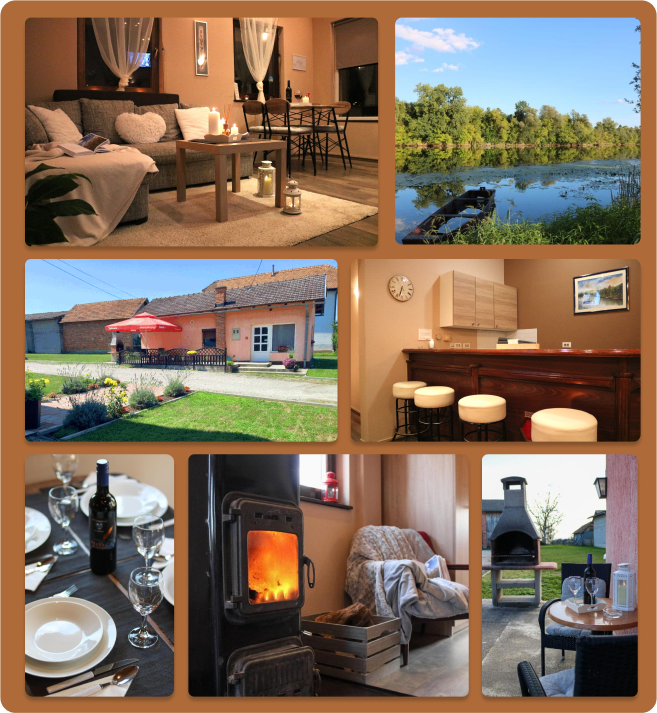
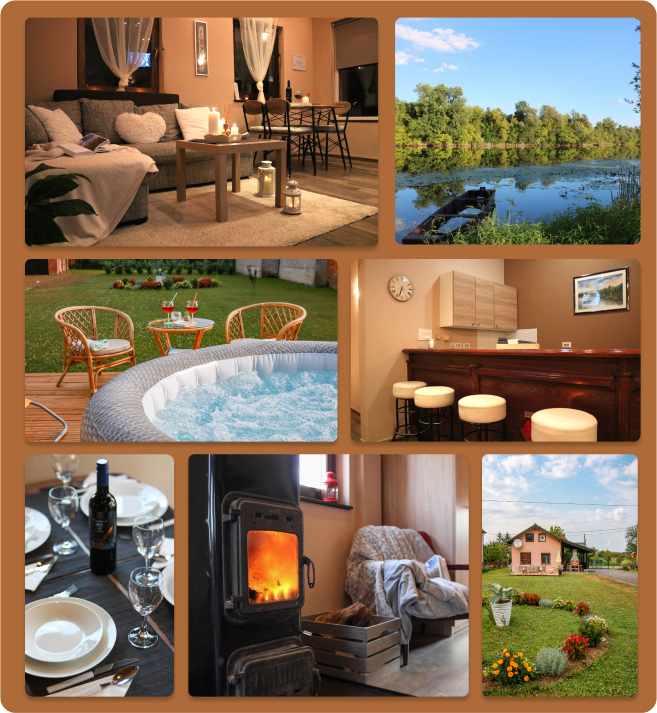
Add new images

Changed region(s): [[0.0304, 0.3394, 0.5175, 0.6171], [0.7306, 0.6171, 0.9741, 0.9874]]

diff --git a/src/Data/AboutImagesList.js b/src/Data/AboutImagesList.js
@@ -1,18 +1,27 @@
 export const AboutImagesList = [
-    { name: "about1.jpg" },
-    { name: "about2.jpg" },
-    { name: "about3.jpg" },
-    { name: "about12.jpg" },
-    { name: "about13.jpg" },
-    { name: "about14.jpg" },
-    { name: "about4.jpg" },
-    { name: "about15.jpg" },
-    { name: "about5.jpg" },
-    { name: "about6.jpg" },
-    { name: "about16.jpg" },
-    { name: "about8.jpg" },
-    { name: "about9.jpg" },
-    { name: "about10.jpg" },
-    { name: "about11.jpg" },
-    { name: "about7.jpg" },
+  { name: "about24.jpg" },
+  { name: "about17.jpg" },
+  { name: "about27.jpg" },
+  { name: "about20.jpg" },
+  { name: "about23.jpg" },
+  { name: "about19.jpg" },
+  { name: "about22.jpg" },
+  { name: "about18.jpg" },
+  { name: "about21.jpg" },
+  { name: "about26.jpg" },
+  { name: "about25.jpg" },
+  { name: "about1.jpg" },
+  { name: "about2.jpg" },
+  { name: "about3.jpg" },
+  { name: "about12.jpg" },
+  { name: "about13.jpg" },
+  { name: "about14.jpg" },
+  { name: "about4.jpg" },
+  { name: "about15.jpg" },
+  { name: "about5.jpg" },
+  { name: "about6.jpg" },
+  { name: "about16.jpg" },
+  { name: "about8.jpg" },
+  { name: "about9.jpg" },
+  { name: "about10.jpg" },
 ];

diff --git a/src/Components/PhotoSlider.jsx b/src/Components/PhotoSlider.jsx
@@ -53,11 +53,18 @@ export default class PhotoSlider extends Component {
     }
 
     const images = [
-      { url: require("../Images/apt1.jpg") },
+      { url: require("../Images/apt12.jpg") },
+      { url: require("../Images/apt10.jpg") },
       { url: require("../Images/apt4.jpg") },
+      { url: require("../Images/apt14.jpg") },
+      { url: require("../Images/apt13.jpg") },
+      { url: require("../Images/apt11.jpg") },
+      { url: require("../Images/apt9.jpg") },
+      { url: require("../Images/apt15.jpg") },
+      { url: require("../Images/apt16.jpg") },
       { url: require("../Images/apt5.jpg") },
       { url: require("../Images/apt6.jpg") },
-      { url: require("../Images/apt9.jpg") },
+      { url: require("../Images/apt1.jpg") },
       { url: require("../Images/apt2.jpg") },
       { url: require("../Images/apt3.jpg") },
     ];

diff --git a/src/Data/CoverImagesList.js b/src/Data/CoverImagesList.js
@@ -1,4 +1,6 @@
 export const CoverImagesList = [
-    { name: "cover1.jpg" },
-    { name: "cover2.jpg" }
+  { name: "cover3.jpg" },
+  { name: "cover1.jpg" },
+  { name: "cover4.jpg" },
+  { name: "cover2.jpg" },
 ];
